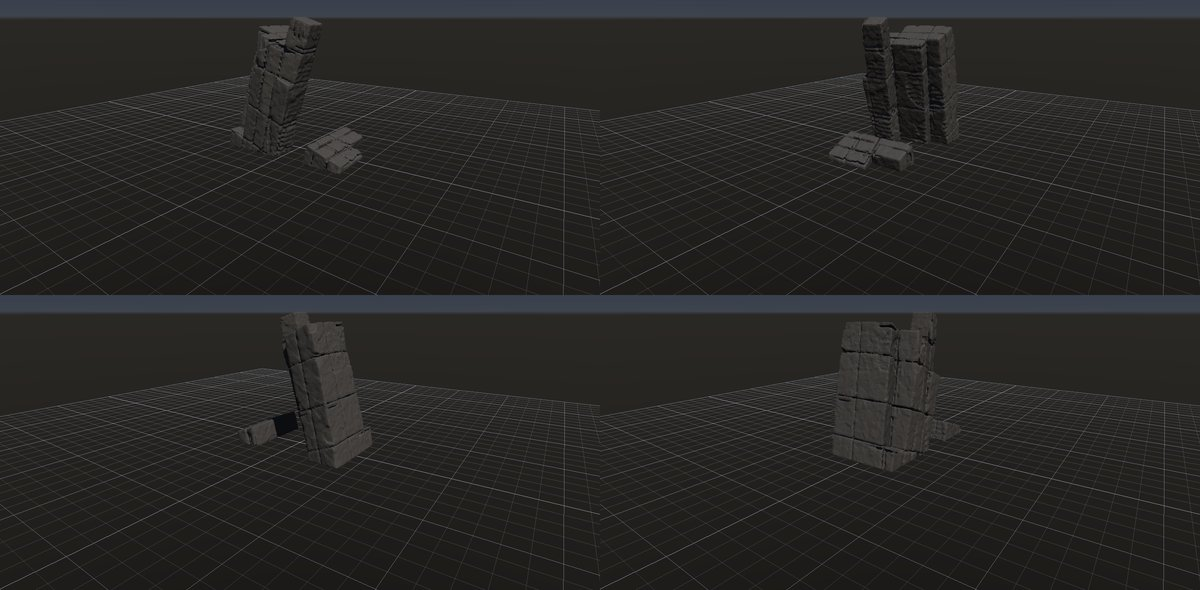
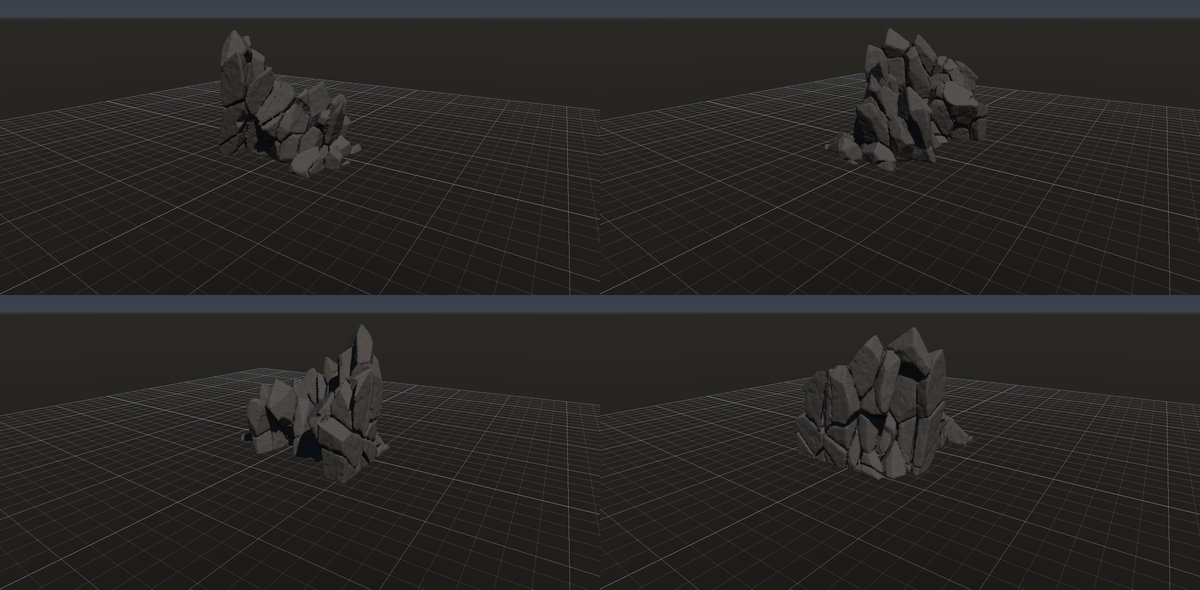
feat: 岩峰のブロックを節理の向きの Voronoi 多面体にし、Piece Transform にばらつきを足す
ブロックがそろいすぎて不自然だったので、granite-buttress の分割を節理の向きに回して伸長した
点の Voronoi に替え、Piece Transform に片ごとのずれ・傾き（jitterPosition / jitterRotation /
jitterSeed）を足した。岩体を大きめにして、外に見える面を全て割れ面にした。

diff --git a/tests/PieceTests.cpp b/tests/PieceTests.cpp
@@ -573,6 +573,30 @@ static void RunPlaneFractureTests() {
         Check(SelectPieces(blocks, grounded, error).ids.empty(), "接地: 進行 0 では何も選ばない");
     }
 
+    // Piece Transform のばらつき: 片ごとに自分の重心を中心に乱数で動かして回す。
+    {
+        PieceTransformSettings shake;
+        shake.jitterPosition = {.1f, .05f, .1f};
+        shake.jitterRotation = 5;
+        const auto moved = TransformPieces(blocks, nullptr, shake, error);
+        bool bounded = error.empty() && moved.pieces.size() == blocks.pieces.size(), varied = false;
+        for (size_t i = 0; i < moved.pieces.size(); ++i) {
+            const auto a = PieceCenter(blocks.pieces[i]), b = PieceCenter(moved.pieces[i]);
+            // 重心のまわりに回すので、重心は移動のばらつきの範囲（各軸）しか動かない。
+            bounded &= std::abs(b.x - a.x) <= .1f + 1e-4f && std::abs(b.y - a.y) <= .05f + 1e-4f && std::abs(b.z - a.z) <= .1f + 1e-4f;
+            varied |= moved.pieces[i].transform != blocks.pieces[i].transform;
+        }
+        Check(bounded && varied, "ばらつき: 片ごとに重心のまわりで動かして回し、移動は指定の範囲に収まる");
+        Check(TransformPieces(blocks, nullptr, shake, error).pieces[3].transform == moved.pieces[3].transform,
+              "ばらつき: 同じ Seed なら同じずれ");
+        shake.jitterSeed = 2;
+        Check(TransformPieces(blocks, nullptr, shake, error).pieces[3].transform != moved.pieces[3].transform,
+              "ばらつき: Seed を変えると別のずれ");
+        shake.jitterRotation = 200;
+        TransformPieces(blocks, nullptr, shake, error);
+        Check(!error.empty(), "ばらつき: 範囲外の回転を拒否する");
+    }
+
     // グラフ: Parallel Planes を連結して系統を足し、Voronoi Fracture の Planes 入力へ。
     graph::NodeGraph g;
     const auto shape = g.CreateNode(graph::NodeKind::BaseRock), first = g.CreateNode(graph::NodeKind::ParallelPlanes),

diff --git a/src/geometry/Pieces.cpp b/src/geometry/Pieces.cpp
@@ -1062,6 +1062,12 @@ PieceCollection TransformPieces(const PieceCollection &c, const PieceSelection *
         error = "位置・回転は有限値、倍率は正の有限値が必要です";
         return {};
     }
+    if (std::any_of(s.jitterPosition.begin(), s.jitterPosition.end(), [](float v) { return !std::isfinite(v) || v < 0 || v > 100; }) ||
+        !std::isfinite(s.jitterRotation) || s.jitterRotation < 0 || s.jitterRotation > 180) {
+        error = "ばらつきは移動 0～100 m、回転 0～180 度にしてください";
+        return {};
+    }
+    const bool jitter = s.jitterRotation > 0 || s.jitterPosition[0] > 0 || s.jitterPosition[1] > 0 || s.jitterPosition[2] > 0;
     D pivot{};
     double weight = 0;
     for (const auto &p : c.pieces)
@@ -1096,6 +1102,15 @@ PieceCollection TransformPieces(const PieceCollection &c, const PieceSelection *
             for (const auto &item : s.overrides)
                 if (item.id == p.id)
                     apply(p, item.pose, center);
+            if (jitter) {
+                // 片の ID と Seed だけで決まる乱数。片を増減しても、ほかの片のずれは変わらない。
+                uint64_t state = (uint64_t(p.id) << 32) ^ (uint64_t(s.jitterSeed) * 0x9E3779B97F4A7C15ull);
+                const auto signedUnit = [&] { return Uniform(state) * 2 - 1; };
+                PiecePose shake;
+                for (int k = 0; k < 3; ++k) shake.position[k] = float(signedUnit() * s.jitterPosition[k]);
+                for (int k = 0; k < 3; ++k) shake.rotation[k] = float(signedUnit() * s.jitterRotation);
+                apply(p, shake, center);
+            }
             apply(p, s.pose, s.individual ? center : pivot);
             if (!std::isfinite(Determinant(p.transform)) || Determinant(p.transform) <= 0) {
                 error = "変換の倍率が表現可能な範囲を超えています";

diff --git a/src/graph/NodeParams.cpp b/src/graph/NodeParams.cpp
@@ -134,6 +134,11 @@ constexpr ParamDefinition kParams[] = {
     {K::PieceTransform, "pieces.pose.rotation", T::Float3, N, N, "度", "回転", "Z → X → Y", C::Error},
     {K::PieceTransform, "pieces.pose.scale", T::Float3, N, N, "倍", "倍率", "正の値", C::Error},
     {K::PieceTransform, "pieces.individual", T::Bool, N, N, "", "各片の重心を中心に", "false なら選択全体の重心を中心にする", C::None},
+    {K::PieceTransform, "pieces.jitterPosition", T::Float3, 0, 100, "m", "ばらつき 移動",
+     "片ごとに各軸 ± この範囲で乱数で動かす（ブロックのずれ・崩れた岩屑）", C::Error},
+    {K::PieceTransform, "pieces.jitterRotation", T::Float, 0, 180, "度", "ばらつき 回転",
+     "片ごとに自分の重心を中心に、各軸 ± この角度で乱数で回す（ブロックの傾き）", C::Error},
+    {K::PieceTransform, "pieces.jitterSeed", T::Int, 0, N, "", "ばらつき Seed", "", C::None},
     {K::PieceTransform, "pieces.producer", T::Int, N, N, "", "", "", C::None, {}, true},
     {K::PieceTransform, "pieces.generation", T::String, N, N, "", "", "", C::None, {}, true},
     {K::PieceTransform, "pieces.overrides", T::FloatArray, N, N, "", "", "片ごとの個別の変換", C::None, {}, true},

diff --git a/src/app/ApplicationPiecePanel.cpp b/src/app/ApplicationPiecePanel.cpp
@@ -363,6 +363,19 @@ void Application::DrawPieceSettings(graph::Node &node) {
         };
         changed |= ImGui::Checkbox("各片の重心を中心に変換", &transform->individual);
         changed |= pose(transform->pose, "pieceGroupPose");
+        if (ui::BeginPropertyTable("pieceJitter")) {
+            changed |= ui::PropertyFloat3Input("ばらつき 移動 (m)", transform->jitterPosition.data(), zero) != 0;
+            changed |= ui::PropertyFloat("ばらつき 回転 (度)", &transform->jitterRotation, 0, 180, 0,
+                "片ごとに自分の重心を中心に、各軸 ± この角度で乱数で回します（ブロックの傾き）。");
+            int seed = int(transform->jitterSeed);
+            if (ui::PropertyInt("ばらつき Seed", &seed, 0, 1000000, 1)) {
+                transform->jitterSeed = uint32_t(seed);
+                changed = true;
+            }
+            ui::EndPropertyTable();
+        }
+        for (float& v : transform->jitterPosition) v = std::clamp(v, 0.f, 100.f);
+        transform->jitterRotation = std::clamp(transform->jitterRotation, 0.f, 180.f);
         if (ImGui::Button("全体のギズモ")) {
             m_pieceGizmoId = -1;
             SetPreviewGraphNode(node.id);

diff --git a/src/io/PieceSettings.h b/src/io/PieceSettings.h
@@ -37,6 +37,9 @@ inline nlohmann::json WritePieceSettings(const graph::Node &node) {
     if (auto *s = std::get_if<PieceTransformSettings>(&node.settings)) {
         nlohmann::json out = {{"pose", WritePiecePose(s->pose)},
                               {"individual", s->individual},
+                              {"jitterPosition", s->jitterPosition},
+                              {"jitterRotation", s->jitterRotation},
+                              {"jitterSeed", s->jitterSeed},
                               {"producer", s->producer},
                               {"generation", std::to_string(s->generation)},
                               {"overrides", nlohmann::json::array()}};
@@ -138,6 +141,9 @@ inline void ReadPieceSettings(graph::Node &node, const nlohmann::json &value) {
         if (value.contains("pose"))
             pose(value["pose"], s->pose);
         read(value, "individual", s->individual);
+        read(value, "jitterPosition", s->jitterPosition);
+        read(value, "jitterRotation", s->jitterRotation);
+        read(value, "jitterSeed", s->jitterSeed);
         read(value, "producer", s->producer);
         generation(s->generation);
         if (value.contains("overrides") && value["overrides"].is_array())

diff --git a/src/graph/RockEvaluator.cpp b/src/graph/RockEvaluator.cpp
@@ -135,7 +135,7 @@ std::optional<std::string> VolumeKey(const NodeGraph& graph, GraphId id, const s
     } else if (const auto* filter = std::get_if<geometry::PieceFilterSettings>(&node->settings)) {
         add(filter->keep);
     } else if (const auto* transform = std::get_if<geometry::PieceTransformSettings>(&node->settings)) {
-        pose(transform->pose); add(transform->individual); add(transform->producer); add(transform->generation); add(transform->overrides.size());
+        pose(transform->pose); add(transform->individual); add(transform->jitterPosition); add(transform->jitterRotation); add(transform->jitterSeed); add(transform->producer); add(transform->generation); add(transform->overrides.size());
         for (const auto& value : transform->overrides) { add(value.id); pose(value.pose); }
     } else if (const auto* displace = std::get_if<geometry::DisplaceSettings>(&node->settings)) {
         add(displace->amount); add(displace->midpoint); usesHeight = true;

diff --git a/src/geometry/Pieces.h b/src/geometry/Pieces.h
@@ -128,6 +128,11 @@ struct PieceOverride {
 struct PieceTransformSettings {
     PiecePose pose;
     bool individual = false;
+    // 片ごとのばらつき。各片を自分の重心を中心に、乱数で動かして（各軸 ±jitterPosition m）回す（各軸 ±jitterRotation 度）。
+    // 節理で割れた岩のブロックのずれ・傾き（クリープ・転倒）、崩れた岩屑。乱数は片の ID と jitterSeed で決まる。
+    std::array<float, 3> jitterPosition{0, 0, 0};
+    float jitterRotation = 0;
+    uint32_t jitterSeed = 1;
     int producer = 0;
     uint64_t generation = 0;
     std::vector<PieceOverride> overrides;

diff --git a/docs/research/rocks.md b/docs/research/rocks.md
@@ -1,7 +1,7 @@
 # 岩の研究ページ
 
 作成日時: 2026-10-01 12:50
-更新日時: 2026-10-01 16:55
+更新日時: 2026-10-01 17:40
 
 「あらゆる種類の岩を作れること」を目標に、岩の種類ごとに今の出来・作り方・課題・改善の履歴を残すページ。一つずつ改善していく。足りないノードの整理（G 番号）は [岩の種類の網羅](../reference/rock-catalog.md)、組み方の手順は [skill](../../.claude/skills/rock-graph/SKILL.md)。
 
@@ -32,7 +32,7 @@
 | [河原の丸石](#河原の丸石) | ○ | `river-pebble` | 形が単調 |
 | [丸い転石](#丸い転石) | ○ | `rounded-boulder` | — |
 | [花崗岩のシーティング](#花崗岩のシーティング) | △ | `granite-sheeting` | 平らな面のボクセルの格子模様 |
-| [花崗岩の岩峰](#花崗岩の岩峰) | △ | `granite-buttress` | 柱が規則的・頂が平ら |
+| [花崗岩の岩峰](#花崗岩の岩峰) | △ | `granite-buttress` | 横から見ると塊状・微小な破片 |
 | [黒曜石・フリント](#黒曜石フリント) | ○ | `obsidian` | ガラス質の素材 |
 | [礫岩](#礫岩) | ○ | `conglomerate` | 礫と基質の色の違い |
 | [角礫岩](#角礫岩) | △ | `breccia` | 礫と基質の色の違い |
@@ -174,12 +174,13 @@
 - 状態: △
 - レシピ: [`granite-buttress`](../../examples/ai-recipes/granite-buttress.rockgraph)
 - 手本: 木曽駒ケ岳（宝剣岳〜千畳敷）の花崗岩の岩峰。ユーザーが撮った写真（`docs/references/DSC08761`・`DSC08749`。Git の対象外）。急傾斜の節理で縦長の塔に割れ、凍結破砕で尖る。塔は同じ向きに傾き、根元でつながる。
-- 作り方: 成因どおりに組む。大きめの岩体（Base Shape の箱）を、連結した 3 系統の節理（急傾斜で間隔の狭い主な節理、緩く傾いた交わる節理、奥行き方向の面）で Voronoi Fracture の Planes 入力からブロックに割る。Piece Select の Peel（接地）で外周からブロックを抜き取る（凍結破砕）。底からは欠かず、下のブロックに載っていない片は落ちる。残ったブロックを To Volume でまとめ、同じ系統で継ぎ目を細く開け、節理の向きの局所の欠け・小面のノイズ・角の摩耗。外に見える面・段・欠けた跡が全て節理の面になる。高さ約 8.5 m。山グラフで斜面に撒く部品として使う想定。
-- 課題: 柱の幅と段がそろいすぎて規則的。頂が交わる節理で平らに切れ、写真のような尖った頂にならない。足元に地面に接したまま残ったブロックが別の塊として残る（最大の塊が体積の 92%）。
+- 作り方: 成因どおりに組む。大きめの岩体（Base Shape の箱）を、点の Voronoi で不規則な多面体のブロックに割る。分割の座標系を主な節理の向き（76°）に回し、伸長 [2.5, 1, 1.6] で節理面の方向に細長く・節理面に垂直に薄くする。Piece Select の Peel（接地）で外周からブロックを抜き取る（凍結破砕。底からは欠かず、下のブロックに載っていない片は落ちる）。Piece Transform のばらつきでブロックを少しずつずらして傾け、To Volume でまとめる（ずれた隙間が段違いの継ぎ目になる）。局所の欠け・小面のノイズ・角の摩耗。尖った頂が同じ向きに傾いて並ぶ。高さ約 7.7 m、幅 9.7 m。山グラフで斜面に撒く部品として使う想定。
+- 課題: 横から見ると塔というより塊状に見える向きがある。微小な破片（体積の 0.2%）と小さな空洞が 1 つ残る。
 - 履歴:
   - 2026-10-01 初版。縦長の塊 1 つを割れ目で塔に分ける案は、溝が格子に並んでレンガの柱になった（上が細らない）。全体を大きな平面で切ると高さが半分に縮んだ（水平に近い面が頂を削る）。塔を別々に作って和にする案に変えた。根元の塊を無くすと塔どうしが溶けて 1 つの塊になり、残して埋める形にした。割れ目は noise を上げると点線に途切れ、variation を下げると石積みの格子になるので、主な節理だけ幅を持たせ、横の節理は細く浅くした。
   - 2026-10-01 Volume Crack に有限の割れ目（長さ・割合・段違い）を足して使った。節理が途中で止まって段違いにずれ、格子の感じが減った。主な節理は間隔 1.1 → 0.7 m・長さ 0.3・割合 0.55・段違い 0.8、横の節理は長さ 0.15・割合 0.35。
   - 2026-10-01 ユーザーの指摘（ひびが後付けに見える、構造から割れた感じが欲しい）で、組み方を作り直した。ひびを彫るのをやめ、節理で岩体をブロックに割って外側から抜き取る形にした。そのために Voronoi Fracture に Planes 入力（構造面で割る）、Parallel Planes に系統の連結、Peel に接地（底から欠かない・支えを失った片は落ちる）を足した。最初の Peel は底からも欠いて頭でっかちになり、次は頂のブロックが横の接触だけでぶら下がった。下のブロックに載っていることを支えの条件にして直した。
+  - 2026-10-01 ユーザーの指摘（ブロックがそろいすぎて不自然。直方体ではなく、Voronoi のような多面体がずれている感じにしたい）で、構造面の分割を点の Voronoi に替えた。座標系を節理の向きに回して伸長し、節理の向きに細長い多面体にした。Piece Transform にばらつき（片ごとのずれ・傾き）を足してブロックをずらした。最初は元の箱の天面と側面が平らに残り石垣のように見えたので、岩体を奥行きも大きくして侵食を進めた。構造面で割る組み方（Voronoi Fracture の Planes 入力）は、層理・板状節理など規則的な割れ方の岩に使う。
 
 ### 黒曜石・フリント
 

diff --git a/docs/changelog.md b/docs/changelog.md
@@ -1,13 +1,14 @@
 # Changelog
 
 作成日時: 2026-09-20 20:05
-更新日時: 2026-10-01 16:55
+更新日時: 2026-10-01 17:40
 
 ## 未リリース
 
 - 節理で岩体をブロックに割れるようにした。Voronoi Fracture に Planes 入力を足し、構造面の系統で凸な Mesh を節理のブロックに割る（隣接情報が揃うので Peel が使える）。Parallel Planes に Planes 入力を足し、別の Parallel Planes を繋ぐと系統を足して渡す（節理系 1 → 2 → 3）。Volume Crack は連結した全系統を 1 回で彫る（1 系統なら従来と同じ結果）。仕様は [Parallel Planes](reference/parallel-planes.md#系統の連結2026-10-01-追加)、[Voronoi とピース操作](reference/voronoi-pieces.md#構造面で割る2026-10-01-追加)。
 - Piece Select の Peel に「接地」を足した。下向きの外面からは欠かず、下のブロックに載っていない片は支えを失って落ちる（地面から生えた岩峰・露頭・崖）。既定はオフ。仕様は [ピースの侵食](reference/piece-erosion.md#接地2026-10-01-追加)。
-- レシピ `granite-buttress` を作り直した。ひびを彫るのをやめ、節理のブロックに割って外側から抜き取る形にした。
+- レシピ `granite-buttress` を作り直した。ひびを彫るのをやめ、ブロックに割って外側から抜き取る形にした。ブロックは節理の向きに伸ばした Voronoi の多面体で、少しずつずらしてある。
+- Piece Transform に片ごとのばらつき（ずれ・傾き。`jitterPosition` / `jitterRotation` / `jitterSeed`）を足した。各片を自分の重心を中心に、乱数で動かして回す。仕様は [Voronoi とピース操作](reference/voronoi-pieces.md#piece-transform-のばらつき2026-10-01-追加)。
 - グラフの評価が深い岩グラフ（30 段ほど）でスタックを使い切り、`rock_cli` が何も出力せずに落ちることがあったので、アプリ・テスト・`rock_cli` のスタックを 16 MB にした。
 - To Volume が、重なった立体（Random Boxes、重なったメッシュ）の内部の距離を表面から測り直すようにした。これまでは内部の値が隠れた面や一つの箱の中での深さになり浅く歪んでいたので、殻・割れ目の深さ・Undercut など内部の値を使うノードの結果が内部の面に沿って崩れていた。表面の形は変わらないが、Random Boxes を使うグラフは後段の結果が少し変わる（多くは体積の差 1% 未満）。仕様は [直方体の塊とボリューム](reference/box-volume.md#to-volume)。
 - Volume Noise が、表面の近くの帯の境で内部の値を跳ばさないようにした（後段の殻の底などが縞になっていた）。表面の形は変わらない。

diff --git a/.claude/skills/rock-graph/SKILL.md b/.claude/skills/rock-graph/SKILL.md
@@ -96,7 +96,7 @@ python tools/rock_shot.py <graph> <out.png> [--yaw <度>] [--pitch <度>] [--ui]
 - **Volume Crack** は Points か Planes のどちらか一方だけを繋ぐ。深さ 1 や外面に近い面は岩を分ける。
 - **ピース系**: Scatter Points の点数は Pieces 入力で 1 片あたり 2〜512、片の数との積が 1024 以下。Scatter Points は凸な Mesh を要る。Peel は Voronoi 直後（Piece Transform より前）に使う。Piece Filter には Pieces と Selection の両方を繋ぐ。
 - **Parallel Planes** は評価範囲に 512 面まで（岩の大きさ ÷ 間隔）。片理なら Layered Boxes・Voronoi と同じ `rotation` を書く。
-- **節理で割れた岩は「割ってから欠く」**: ひびを彫るだけだと後付けに見える。Parallel Planes を連結して節理の系統を足し、Voronoi Fracture の Planes 入力でブロックに割り、Piece Select の Peel（地面から生えた岩は `grounded`）で外周から抜き取る（`granite-buttress`）。
+- **節理で割れた岩は「割ってから欠く」**: ひびを彫るだけだと後付けに見える。ブロックに割り、Piece Select の Peel（地面から生えた岩は `grounded`）で外周から抜き取る。不規則な割れ方は節理の向きに回して伸ばした Voronoi（Points）、規則的な割れ方は Parallel Planes を連結して Voronoi Fracture の Planes 入力。Piece Transform の `jitterPosition` / `jitterRotation` でブロックをずらすと石積みに見えない（`granite-buttress`）。元の形の平らな面が残ると石垣に見えるので、岩体を大きめにして侵食を進める。
 - **割れ目が格子・石積みに見える**: Parallel Planes の割れ目は既定で端から端まで続く。Volume Crack の `extent`（割れ目の長さ）・`coverage`（割合）・`stagger`（段違い）で途中で止まる節理にする。`noise` を上げて途切れさせると点線になる。
 - **Pieces to Mesh の後の空洞**: 板の隙間が閉じた空洞として大量に残る。Volume Close で埋まる。
 - **Debug ビルドの Remesh** はスタックオーバーフローで落ちることがある。撮影・評価は Release を使う。

diff --git a/docs/reference/rock-catalog.md b/docs/reference/rock-catalog.md
@@ -1,7 +1,7 @@
 # 岩の種類の網羅（作れる岩と足りないノード）
 
 作成日時: 2026-10-01 08:30
-更新日時: 2026-10-01 16:55
+更新日時: 2026-10-01 17:40
 
 ## 目的
 
@@ -30,7 +30,7 @@
 | 河原の丸石・円礫 | 平たく丸い、なめらか | ○ | `river-pebble`（楕円体 + 弱いノイズ、Marching Tetrahedra） |
 | 丸い転石・迷子石 | 丸いが大きな面が残る | ○ | `rounded-boulder` |
 | 花崗岩のコアストーン・シーティング | 丸い塊に、表面に沿って湾曲した剥離の割れ目 | △ | `granite-sheeting`（Volume Crack の「表面に沿う殻」。G3 で対応）。剥がれた板の段は出る。段がもう少し厚く、縁が欠けているとよい |
-| 花崗岩の岩峰（岩稜） | 急傾斜の節理で割れた尖った塔が並び、根元でつながる | △ | `granite-buttress`（節理の 3 系統で岩体をブロックに割り、Peel の接地で外周から抜き取る）。柱が規則的で頂が平ら |
+| 花崗岩の岩峰（岩稜） | 急傾斜の節理で割れた尖った塔が並び、根元でつながる | △ | `granite-buttress`（節理の向きに伸ばした Voronoi の多面体に割り、Peel の接地で外周から抜き取り、Piece Transform のばらつきでずらす）。横から見ると塊状の向きがある |
 | 黒曜石・フリントの貝殻状断口 | 滑らかに湾曲した割れ面、鋭い稜 | ○ | `obsidian`（Plane Cuts の「曲がり」。G4 で対応）。ガラス質の見た目は素材 |
 | 礫岩 | 丸い礫が埋まって突き出る | ○ | `conglomerate`（Volume Scatter の楕円体・和。G7 で対応）。礫と基質の色の違いは **G6** |
 | 角礫岩 | 角張った礫が埋まる | △ | `breccia`（Volume Scatter の箱・和）。形は出るが、礫と基質の色の違いが無いと弱い → **G6** |
